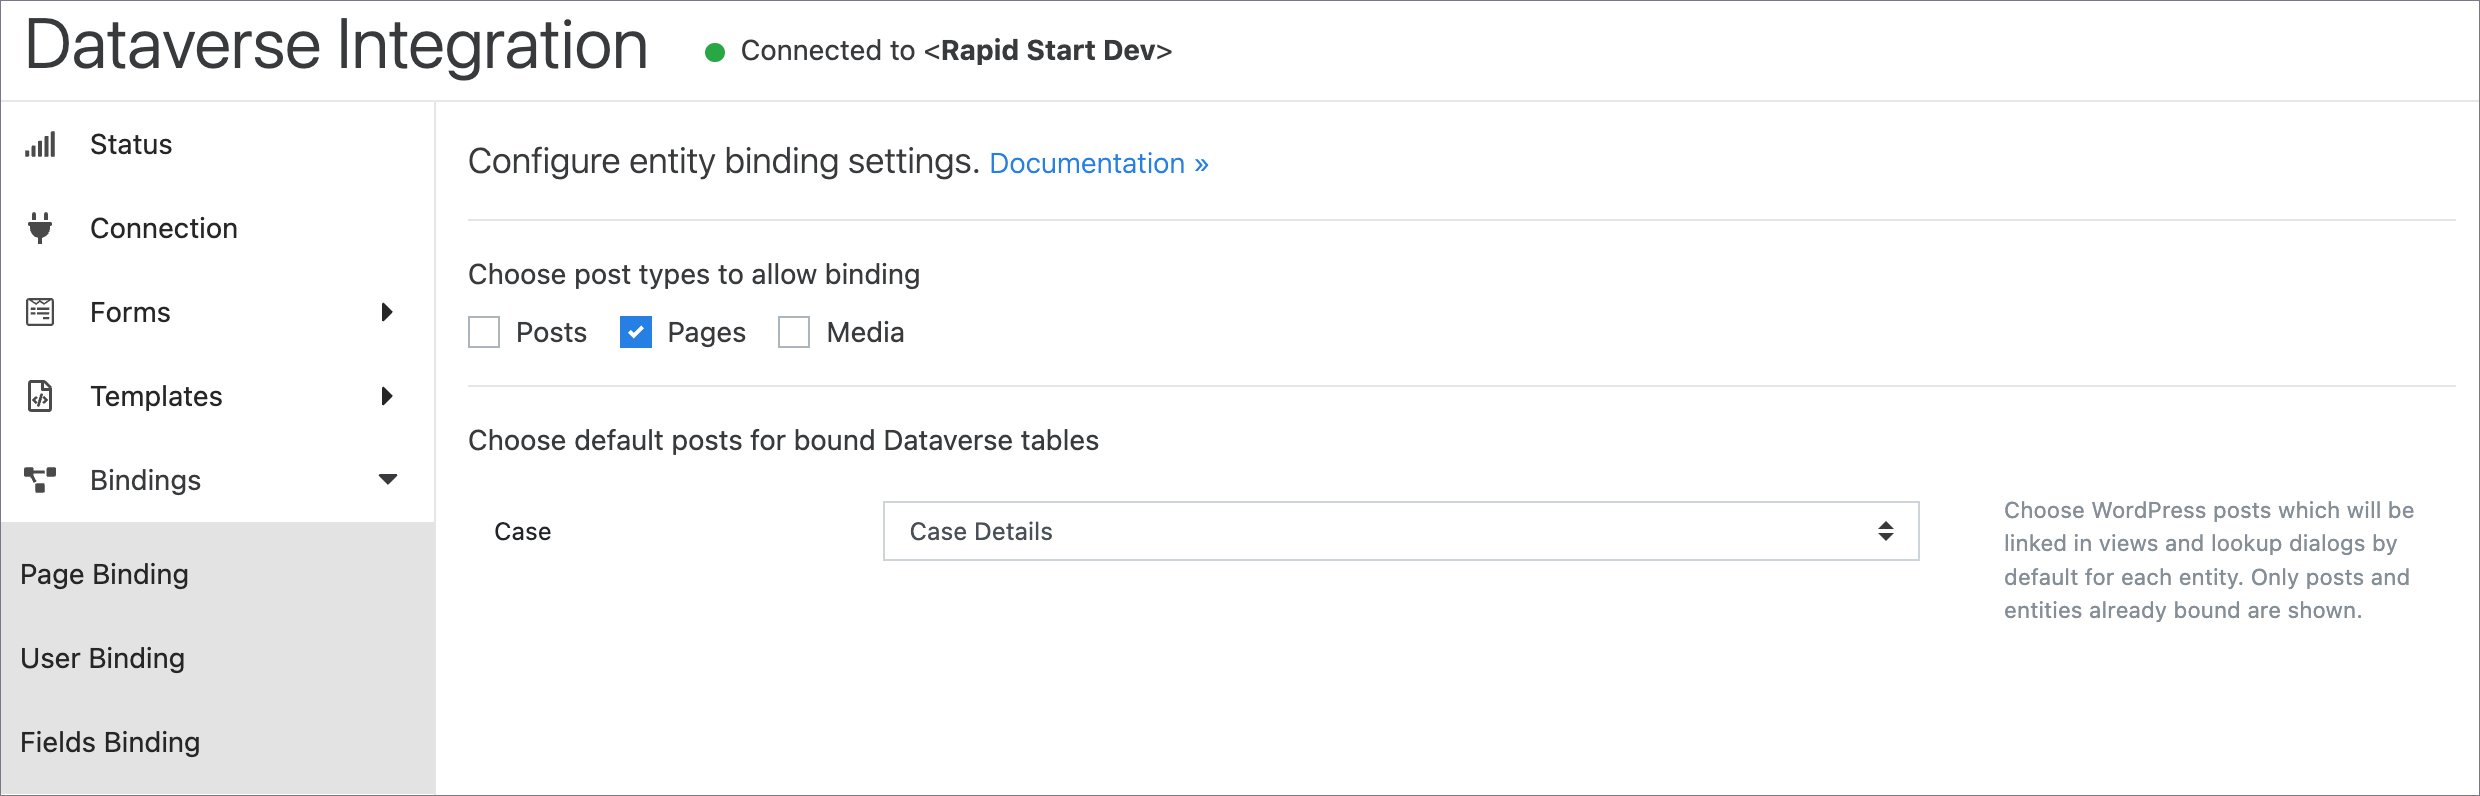
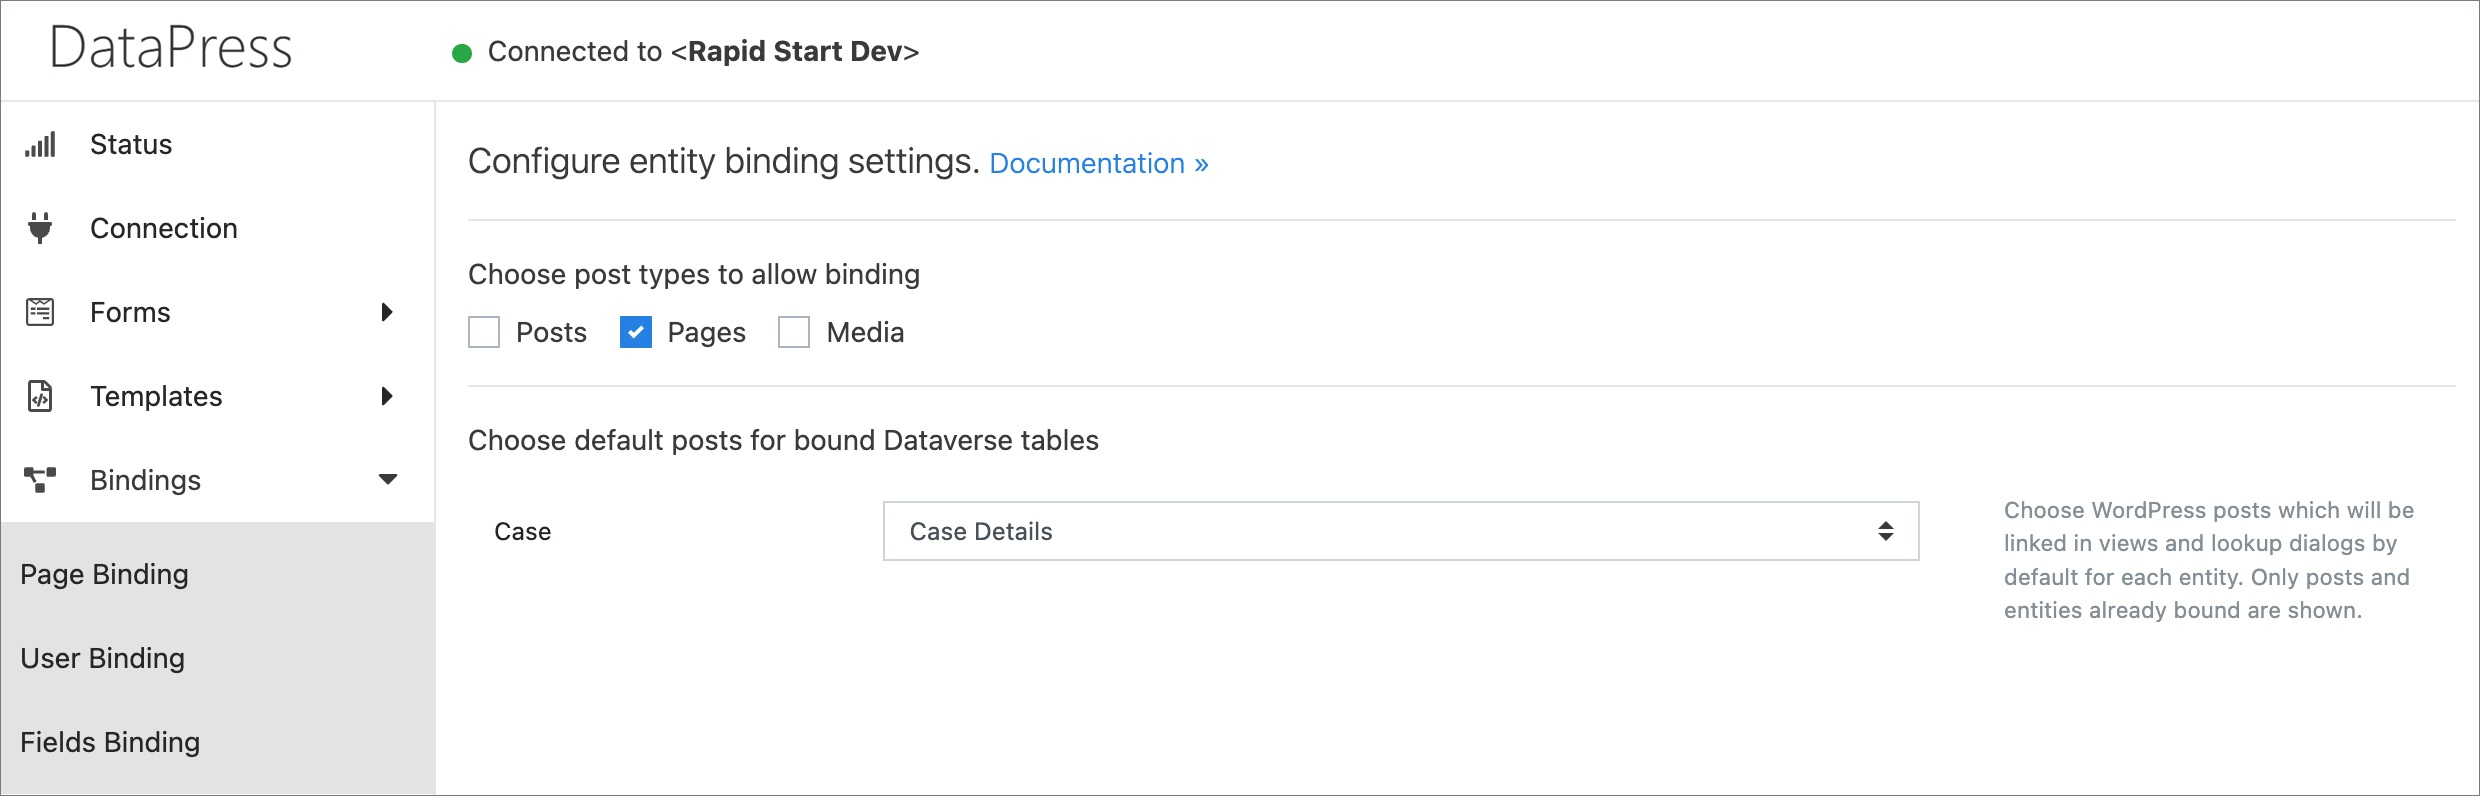
update screenshots and user.reference example

Changed region(s): [[0.0, 0.0302, 0.4657, 0.0905], [0.4036, 0.1809, 0.4657, 0.2111]]

diff --git a/datapress/premium-features.md b/datapress/premium-features.md
@@ -89,7 +89,7 @@ When adding a registration, you may encounter a 403 error. Follow [these steps](
 1. Sign in into WordPress as admin user.
 2. Select **Dataverse** in the left-hand side navigation.
 3. Select **Addons** in the left-hand side navigation.
-4. Download **Dataverse Integration Premium**.
+4. Download **DataPress (Dataverse Integration) Premium**.
 5. Select **Back to WordPress** in the left-hand side navigation.
 6. Navigate to **Plugins** > **Add New** > **Upload Plugin**.
 7. Activate the plugin once it's installed. 

diff --git a/datapress/using-twig/twig_introduction.md b/datapress/using-twig/twig_introduction.md
@@ -110,7 +110,7 @@ The following object members are available:
 
 **Performance Considerations**
 
-- **user.record retrieves** data directly from Dataverse, making it more resource-intensive.
+- **user.record** retrieves data directly from Dataverse, making it more resource-intensive.
 
 - **user.reference** derives the entity reference from the local database and request parameters, offering a more efficient solution.
 

diff --git a/datapress/binding/user-binding.md b/datapress/binding/user-binding.md
@@ -127,11 +127,11 @@ The user object allows you to check whether the current user is bound and access
 **Example Usage**
 
 ```twig
-{{ user.record }} 
+{{ user.record.fullname }} 
 ```
 
 ```twig
-{{ user.reference }}
+{{ user.reference.Id }}
 ```
 Example Output
 
